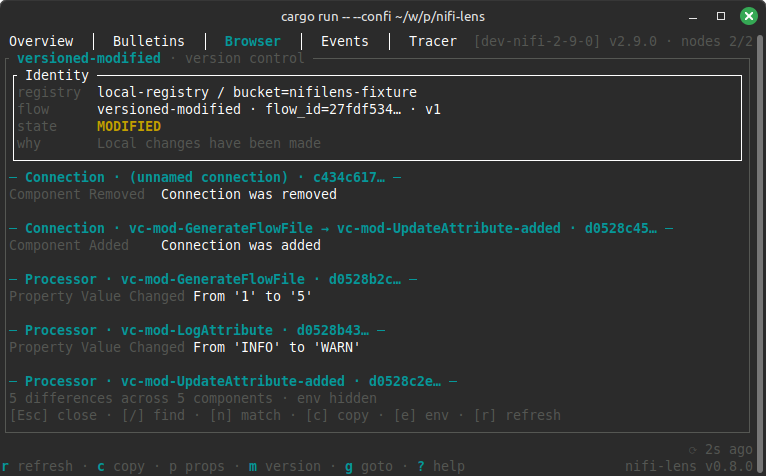
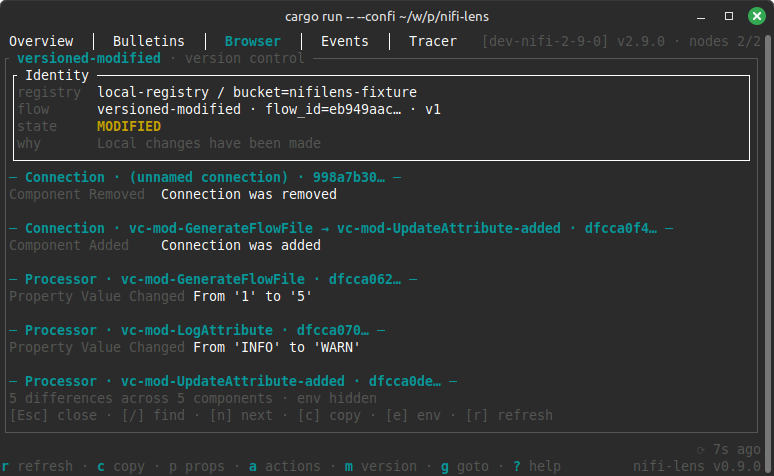
docs: adapt screenshots for 0.9.0.

diff --git a/README.md b/README.md
@@ -47,9 +47,13 @@
 
 ![Browser tab](assets/screenshots/browser_version.png)
 
-**Browser** — Parameter-contexts: "Where does this parameter come from?"
+**Browser** — Parameter contexts: "Where does this parameter come from?"
 
 ![Browser tab](assets/screenshots/browser_parameter.png)
+
+**Browser** — Action history: "Which user modified this component?"
+
+![Browser tab](assets/screenshots/browser_actions.png)
 
 **Events** — Provenance search and detail: "What just happened across the cluster?"
 
